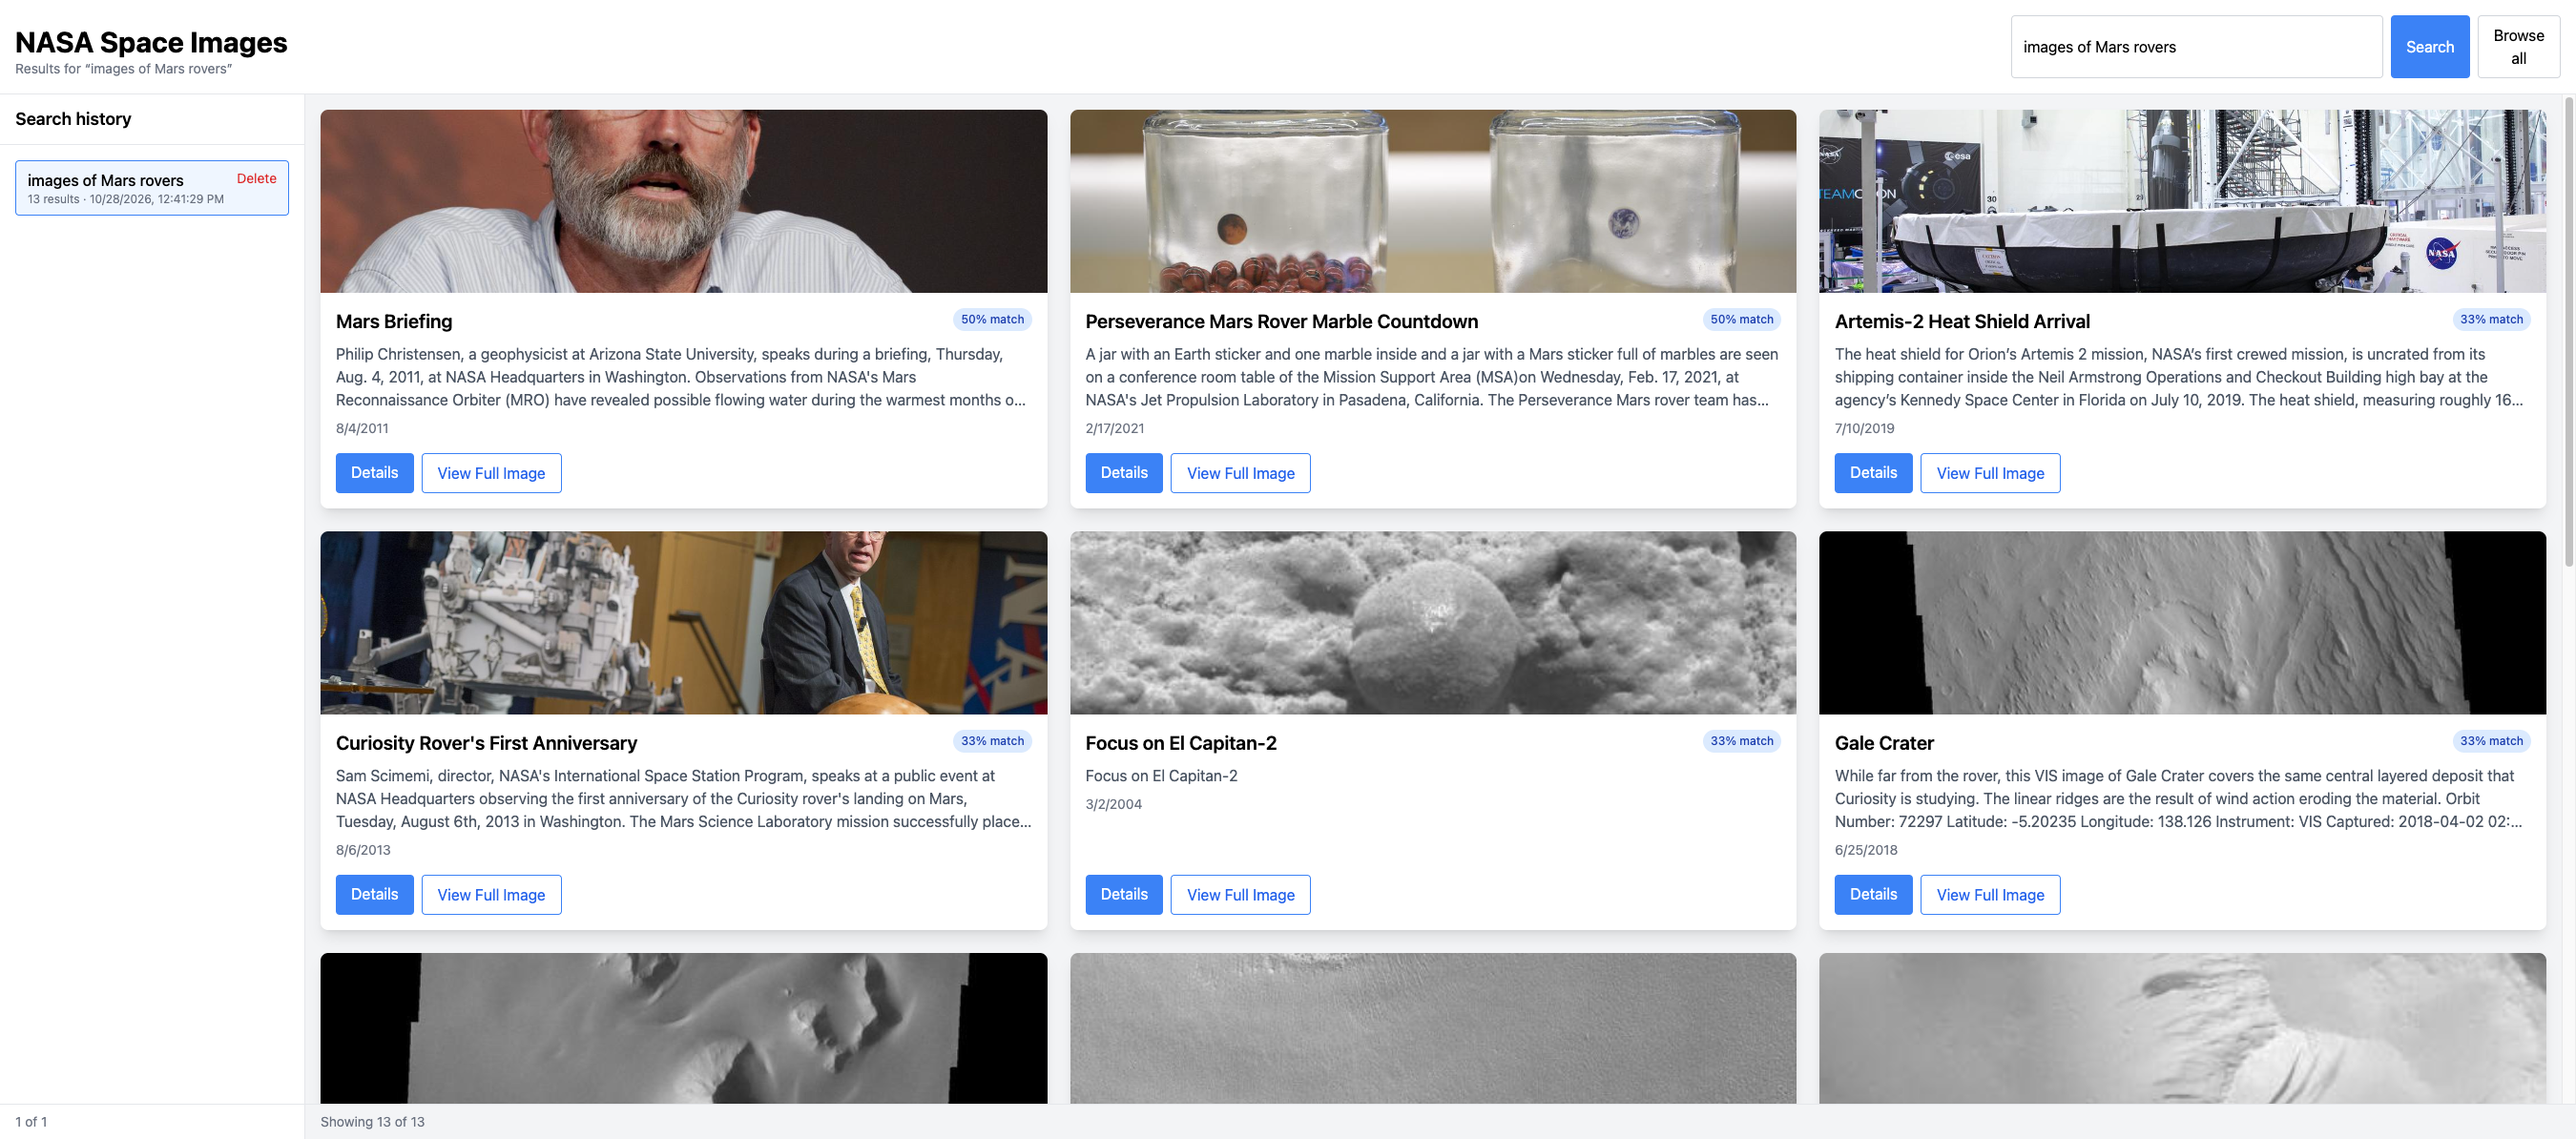
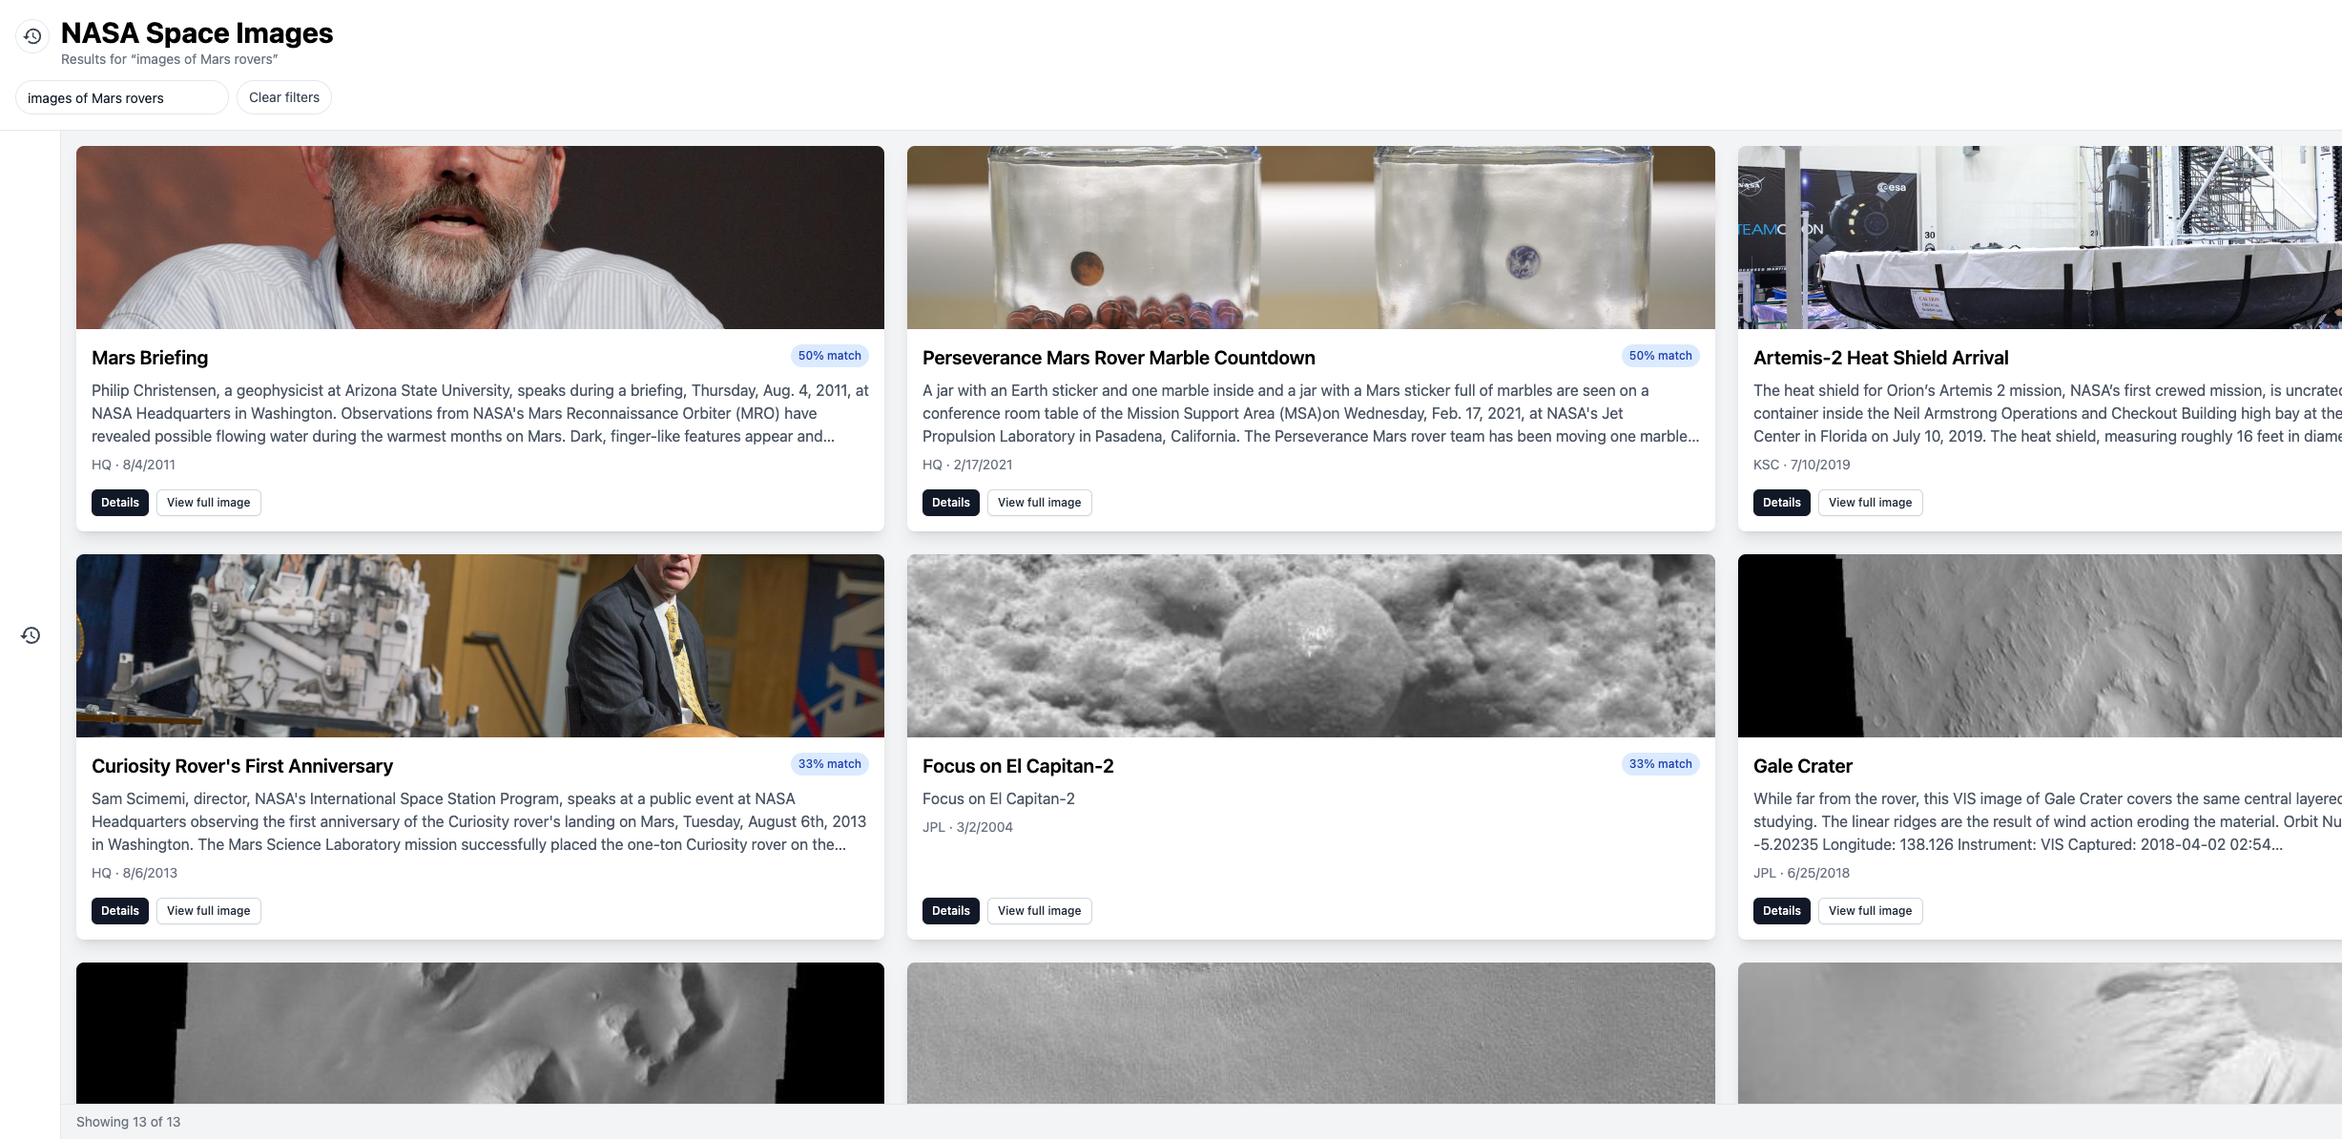
Update the similar-images demo to the current search and detail UI.

diff --git a/README.md b/README.md
@@ -235,7 +235,7 @@ The browse catalog can be narrowed by a date range, NASA center, and keyword. Da
 1. **Feature name**: Similar images
 2. **Why this feature**: A search gets you into the collection, but the next interesting image is often one that shares a mission, place, or instrument. Opening an image and seeing related ones, each with a confidence score, lets someone explore without writing another query.
 3. **Implementation details**: Similar images use the same keyword-overlap scorer as search. The query is the open image's title plus its NASA keywords. Each other image earns points when a token appears in its title (weight 3), keywords (weight 2), or description (weight 1). Confidence is those points divided by the maximum title score, so a full title match is 1. The image itself is excluded, and the result is not written to search history. The detail panel shows metadata (`nasa_id`, type, status, date, description, keywords) above a paged, virtualized list of similar images, so only the visible rows are rendered and the next page loads as you reach the end.
-4. **Demo**: Open any image card, then scroll the Similar images list in the panel. A Mars image surfaces other Mars images with a match percentage.
+4. **Demo**: Search for images of Mars rovers. The query sits beside Clear filters, and each result shows a match percentage. Open Gale Crater to list similar Mars images in the detail panel.
 
 ![Search results for images of Mars rovers](docs/search-mars.png)
 
